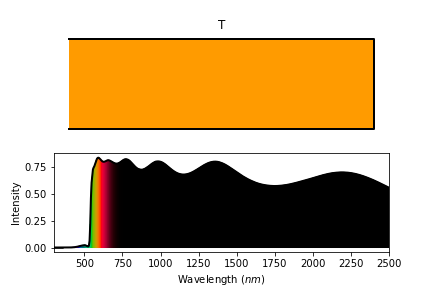
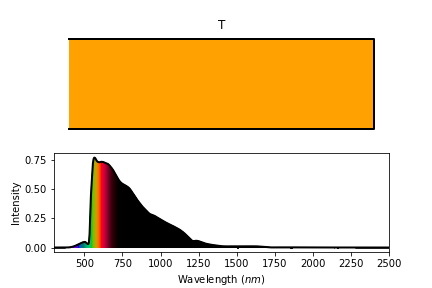
Adjusted some values
Trying to figure out why optimization is extremely slow. Adjusted some values to see if variables were being recalculated in loops

diff --git a/tmmPCEOptimization.py b/tmmPCEOptimization.py
@@ -103,11 +103,11 @@ worksheet = pandas.read_excel('https://www.nrel.gov/grid/solar-resource/assets/d
 downloaded_array = np.array(worksheet)
 AM15 = downloaded_array[1:, [0,2]]
 
-Ephoton = tpc.Ephoton#hPlanck * c0 / lams *1e6 #J
+Ephoton = hPlanck * c0 / lams *1e6 #J tpc.Ephoton#
 #E_min = min(Ephoton) #J   energy units from hPlanck
 #E_max = max(Ephoton) #J   energy units from hPlanck
 
-solar_constant = tpc.solar_constant#Solar_Constant(Ephoton)
+solar_constant = tpc.Solar_Constant(Ephoton)#tp.solar_constant
 #+++++++++Start optimization parts+++++++++++++++++++++++#
 
 #Constraint on VLT
@@ -132,7 +132,7 @@ def dotheoptimize(Thickness):
     func_to_minimize = lambda x : -MediumOptimize(x)
     #bnd = scipy.optimize.Bounds(.02, .1, keep_feasible=False)#If testing a single layer use this line
     #return scipy.optimize.minimize(func_to_minimize, Thickness,method='SLSQP',bounds = bnd )
-    return scipy.optimize.minimize(func_to_minimize, Thickness,method='SLSQP', bounds = Boundary, constraints = (VLTc), options={'ftol': 1e-06, 'eps': 1.4901161193847656e-08})#, 'finite_diff_rel_step': None})
+    return scipy.optimize.minimize(func_to_minimize, Thickness,method='SLSQP', bounds = Boundary, constraints = (VLTc))#, options={'ftol': 1e-06, 'eps': 1.4901161193847656e-08})#, 'finite_diff_rel_step': None})
 
 def TotalOptimize(eta, Thickness, LayersMaterials, Boundaries, AbsorberLayer, Ti = 300, To = 300, Ui = 8.3, Uo = 17, Rs = .02, Rsh = 1000, n = 1, Ns = 1):
     AbsorberLayer = AbsorberLayer
@@ -165,10 +165,10 @@ def GlobalOptimize2(Thickness):
 
 
 
-Thickness = [GlassTh,FTOTh,TiO2Th,MAPBrTh]#,NiOTh,ITOTh,EVATh,GlassTh,TiO2lowETh,AgTh,TiO2lowETh]
-LayersMaterials = [Glass,FTO,TiO2,MAPBr]#,NiO,ITO,EVA,Glass,TiO2lowE,Ag,TiO2lowE]
+Thickness = [GlassTh,FTOTh,TiO2Th,MAPBrTh,NiOTh,ITOTh,EVATh,GlassTh,TiO2lowETh,AgTh,TiO2lowETh]
+LayersMaterials = [Glass,FTO,TiO2,MAPBr,NiO,ITO,EVA,Glass,TiO2lowE,Ag,TiO2lowE]
 #Bounds = GiveBounds(LayersMaterials)
-Boundary = [GlassBound,FTOBound,TiO2Bound,MAPBrBound]#,NiOBound,ITOBound,EVABound,GlassBound,TiO2lowEBound,AgBound,TiO2lowEBound]
+Boundary = [GlassBound,FTOBound,TiO2Bound,MAPBrBound,NiOBound,ITOBound,EVABound,GlassBound,TiO2lowEBound,AgBound,TiO2lowEBound]
 AbsorberLayer = 4
 AbsorberBoundary = MAPBrBound
 Rs = .002 #* ohm #series resistance
@@ -181,35 +181,38 @@ To = 300
 Ui = 8.3 #W/(m**2 *K) 
 Uo = 17 #W/(m**2 *K)
 Rtot = 1/Ui
-
+'''
 layers = tpc.GiveLayers(Thickness,LayersMaterials)
 spectres = tpc.Spectra(layers,AbsorberLayer)
 Absorbed = tpc.GiveEInterp(spectres['AbsByAbsorbers'])
-
-
+'''
+'''
 RR0 = tpc.RR0(eta,Absorbed,300)
 gen = tpc.Generated(eta,Absorbed)
 Q = tpc.GiveQ(Absorbed)
 print('RR0 = ',RR0)
 print('gen = ',gen)
 print('Q = ',Q)
-
+'''
 
 
 minmax = tpc.GiveMinMaxVLTFromMaterials(LayersMaterials,AbsorberLayer, AbsorberBoundary)
 print('VLT range and thicknesses of absorber are',minmax)
 
 #___________________________________Pre Optimization______________________
+'''
 layers=tpc.GiveLayers(Thickness,LayersMaterials)
 Spectres = tpc.Spectra(layers, AbsorberLayer)
 As = Spectres['As']
 Absorbed = tpc.GiveEInterp(Spectres['AbsByAbsorbers'])
+start0 = time.time()
 TcellPreOp = tpc.TcellCalc(As, eta, Ti,To, Absorbed, Ui, Uo, Rs, Rsh)
+end0 = time.time()
 print('Tcell PreOp = ',TcellPreOp)
-
-
+print('TIme to calculate Tcell in sec = ', end0-start0)
+'''
 PreOpInfo = tpc.GiveImportantInfo(Thickness, LayersMaterials,eta,Ti,To,Ui,Uo,Rs,Rsh,solar_constant)
-print('PreOp Calculations give',PreOpInfo)
+#print('PreOp Calculations give',PreOpInfo)
 
 
 
@@ -220,11 +223,13 @@ print('PreOp Calculations give',PreOpInfo)
 start1 = time.time()
 print('Sim PCE for Optimization =', MediumOptimize(Thickness))
 end1 = time.time()
+TimePCE = (end1-start1)
+print('Time to calculate PCE in sec', TimePCE)
 start2 = time.time()
 WERT = dotheoptimize(Thickness)
 end2 = time.time()
 print(WERT)
-TimePCE = (end1-start1)
+#TimePCE = (end1-start1)
 TimeOptimize = (end2 - start2)
 print('time to calculate PCE from scratch in seconds = ', TimePCE, 'Time to run optimizer in minutes = ',TimeOptimize/60)
 #print('VLT = ',VLTconstraint(WERT['x'])+.5)
@@ -280,7 +285,7 @@ PCE =  0.0823026767378474 VLT =  0.5368890922289812 SHGC =  1.023465230604362 Tc
 [6.00000000e+03, 1.00000000e-01, 2.50000000e-02, 6.97669968e-01])
 '''
 
-moopsbrgd
+#moopsbrgd
 
 '''
 #Tried to plot the effect of FTO vs TiO2.

diff --git a/tmmPCEadamForUseWithpvlib.py b/tmmPCEadamForUseWithpvlib.py
@@ -24,7 +24,7 @@ from pvlib import pvsystem
 from colorpy import plots, ciexyz, colormodels #need to install colorpy to call all packages at once
 import tmmPVColor as pvc
 import tmmPCECalc as tpc
-
+import time
 
 #import numericalunits
 #help(numericalunits)
@@ -164,10 +164,10 @@ def GiveBounds(LayersMaterials):
 #layers = [Glass,FTO,TiO2,C60,ClAlPc,NiO,ITO,EVA,Glass,TiO2lowE,Ag,TiO2lowE]
 
 # 50% VLT with non-wavelength-selective absorber, MAPbBr3 = 500 nm
-#layers = [Glass(),FTO(),TiO2(),MAPBr(),NiO(),ITO(),EVA(),Glass(),TiO2lowE(),Ag(),TiO2lowE()]
+layers = [Glass(),FTO(),TiO2(),MAPBr(),NiO(),ITO(),EVA(),Glass(),TiO2lowE(),Ag(),TiO2lowE()]
 
 
-layers = [Glass(),FTO(),TiO2(),MAPI()]#,NiO(),ITO(),EVA(),Glass(),TiO2lowE(),Ag(),TiO2lowE()]
+#layers = [Glass(),FTO(),TiO2(),MAPI()]#,NiO(),ITO(),EVA(),Glass(),TiO2lowE(),Ag(),TiO2lowE()]
 #layers = [Glass(),FTO(),TiO2(),MAPI(),NiO(),ITO(),EVA(),Glass(),TiO2lowE(),Ag(),TiO2lowE()]
 
 
@@ -517,13 +517,13 @@ def RR0trapz(eta,AbsByAbsorbers,Tcell):
     integrand = eta * AbsByAbsorbers * (Ephoton)**2 / (np.exp(Ephoton / (kB * Tcell)) - 1)
     integral = scipy.integrate.trapz(integrand, Ephoton)
     return ((2 * np.pi) / (c0**2 * hPlanck**3)) * integral# / 1.60218e-19 #J/eV
-
+'''
 print('RR0', RR0(0.6,Absorbed, 300)) 
 print('RR0Trapz', -RR0trapz(0.6,AbsByAbsorbers,300))
-Mooperty
+#Mooperty
 print(AbsByAbsorbers)
 print(AbsByAbsorbers.round(6))
-
+'''
 def Generated(eta,Absorbed):
     integrand = lambda E : eta * Absorbed(E) * SPhotonsPerTEA(E)
 #    integral = scipy.integrate.quad(integrand, E_min, E_max, full_output=1)[0]
@@ -534,9 +534,10 @@ def GeneratedTrapz(eta,AbsByAbsorbers):
     integrand = eta * AbsByAbsorbers * SPhotonsPerTEA(Ephoton)
 #    integral = scipy.integrate.quad(integrand, E_min, E_max, full_output=1)[0]
     return np.trapz(integrand, Ephoton)
-
+'''
 print('Gen', Generated(0.6,Absorbed)) 
 print('GenTrapz', -GeneratedTrapz(0.6,AbsByAbsorbers))
+'''
 #RR = RR0(eta,Absorbed,Tcell)
 #Gen = Generated(eta,Absorbed)
 #print('Gen =', Gen * q,'. Example value is ~2-5')
@@ -659,7 +660,7 @@ def max_efficiency(eta,Absorbed,Tcell):
 print('SHGC = ',SHGC(eta, Ts, Ti, To, 8, Tcell))
 print("PCE =",max_efficiency(eta,Absorbed,Tcell))
 
-MoopsNSons
+#MoopsNSons
 #+++++++++Start optimization parts+++++++++++++++++++++++#
 
 #Constraint on VLT
@@ -702,7 +703,10 @@ Thickness = (6000,.250,0.050,0.500,0.050,0.200,3000,6000,0.030,0.015,0.030)
 LayersMaterials = [Glass,FTO,TiO2,MAPBr,NiO,ITO,EVA,Glass,TiO2lowE,Ag,TiO2lowE]
 #Bounds = GiveBounds(LayersMaterials)
 print('Sim PCE for Optimization =',MediumOptimize(Thickness))
+start = time.time
 WERT = dotheoptimize(Thickness)
+end = time.time
+print('Time to optimize in minutes = ',(end-start)/60)
 print(WERT)
 print('VLT = ',VLTconstraint(WERT['x'])+.5)
 #print(WERT['x'])

diff --git a/tmmPCECalc.py b/tmmPCECalc.py
@@ -404,11 +404,11 @@ def max_efficiency(eta,Absorbed,Tcell, solar_constant, Rs, Rsh):
     #Tcell = TcellCalc(As,Ti,To,eta,Absorbed)
     return Give_Pmp(eta, Absorbed, Rs, Rsh, Tcell) / solar_constant
 
-def GiveImportantInfo(WERT, LayersMaterials,eta,Ti,To,Ui,Uo,Rs,Rsh,solar_constant):
+def GiveImportantInfo(Thickness, LayersMaterials,eta,Ti,To,Ui,Uo,Rs,Rsh,solar_constant):
     
-    NeoThickness = WERT#['x'] 
-    layers = GiveLayers(NeoThickness,LayersMaterials)
-
+    
+    layers = GiveLayers(Thickness,LayersMaterials)
+    
     spectra = Spectra(layers ,4)
     AbsByAbsorbers = spectra['AbsByAbsorbers']
     Ts = spectra['Ts']
@@ -448,7 +448,8 @@ def GiveImportantInfo(WERT, LayersMaterials,eta,Ti,To,Ui,Uo,Rs,Rsh,solar_constan
     plt.xlabel('wavelength, $\mu$m')
     plt.legend(loc = 'upper right')
     plt.show()
-
+    
+    #EphotoneV = Ephoton*6.242e+18 
     plt.figure()
     plt.plot(Ephoton, Ts, color='magenta',marker=None,label="$T$")
     plt.plot(Ephoton, Rfs,color='green',marker=None,label="$R_f$")

diff --git a/forBEM.py b/forBEM.py
@@ -64,11 +64,11 @@ EVA = Layer(3000,'nkEVA','i')
 # 50% VLT with wavelength-selective absorber, IR = 60 nm
 #layers = [Glass,FTO,TiO2,IR,NiO,ITO,EVA,Glass,TiO2lowE,Ag,TiO2lowE]
 # 50% VLT with wavelength-selective absorber, C60 = 100 nm, ClAlPc = 200 nm
-layers = [Glass,FTO,TiO2,C60,ClAlPc,NiO,ITO,EVA,Glass,TiO2lowE,Ag,TiO2lowE]
+#layers = [Glass,FTO,TiO2,C60,ClAlPc,NiO,ITO,EVA,Glass,TiO2lowE,Ag,TiO2lowE]
 
 
 # 50% VLT with non-wavelength-selective absorber, MAPbBr3 = 500 nm
-#layers = [Glass,FTO,TiO2,MAPBr,NiO,ITO,EVA,Glass,TiO2lowE,Ag,TiO2lowE]
+layers = [Glass,FTO,TiO2,MAPBr,NiO,ITO,EVA,Glass,TiO2lowE,Ag,TiO2lowE]
 
 # Different thicknesses of MAPI: 50% VLT = 40 nm, 25% VLT = 130 nm, 5% VLT = 370 nm, 0.5% VLT = 775 nm
 #layers = [Glass,FTO,TiO2,MAPI,NiO,ITO,EVA,Glass,TiO2lowE,Ag,TiO2lowE]
